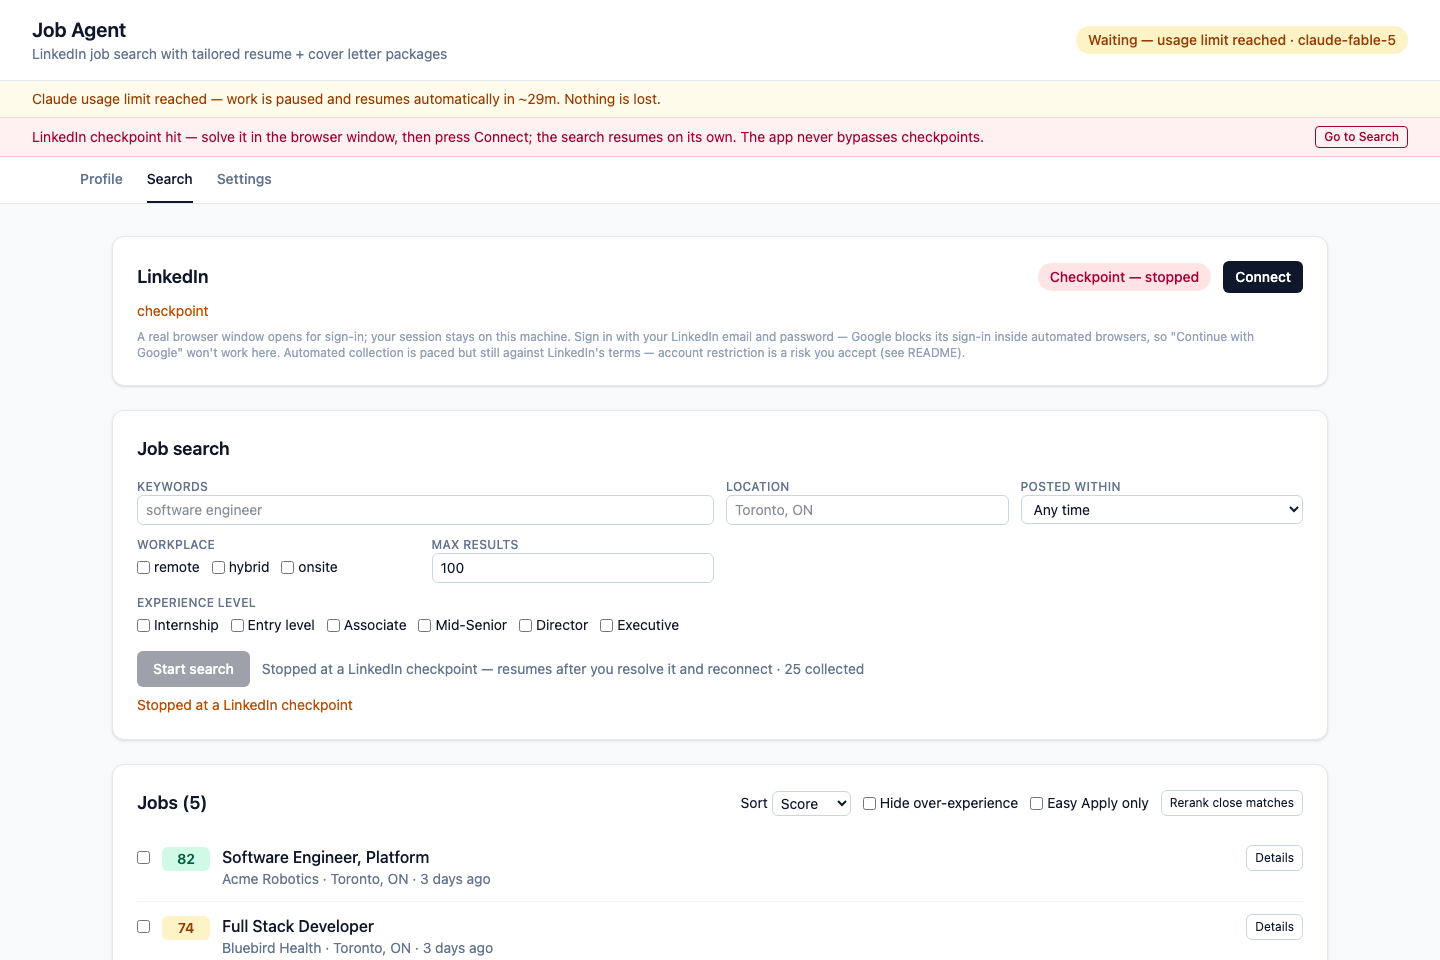
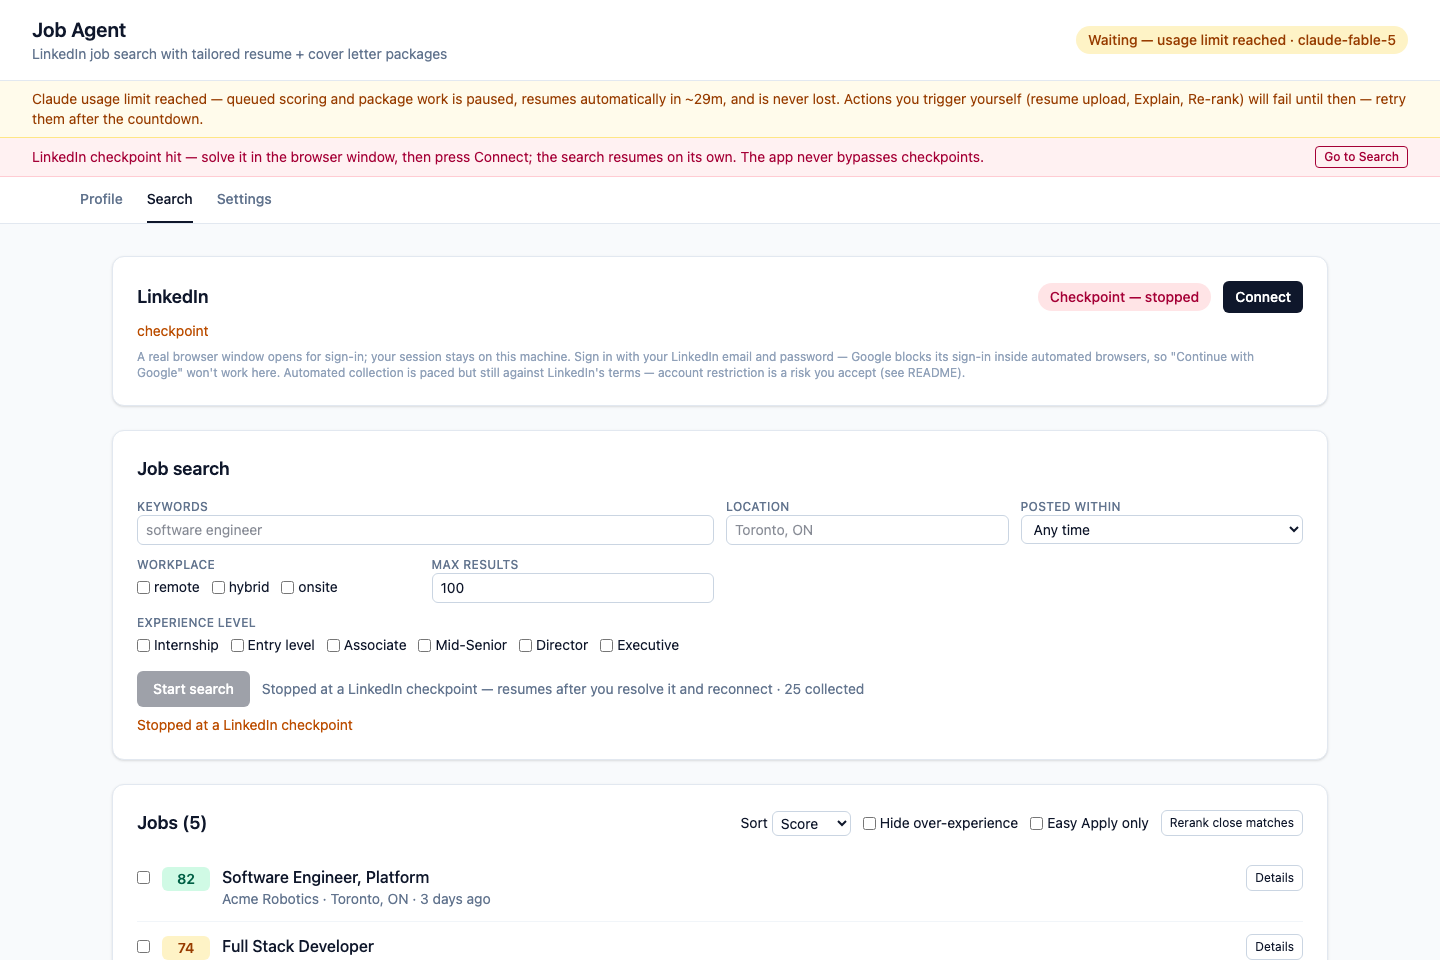
Fix same-file upload retry, refresh recovery screenshot, add macOS fresh-clone script
M5 review round 4:

- Onboarding file input kept its value after a failed upload, so
  re-picking the SAME file fired no change event and the retry silently
  did nothing. The handler now captures the file and clears the input
  immediately, making the next pick a real change whether or not it is
  the same file. scripts/ci/upload_retry_browser_check.py verifies this
  in a real Chromium against the built UI with the upload API mocked
  (503 then 200): it asserts the input is empty after the failure — the
  DOM precondition browsers require — and that a second selection of the
  same file reaches the API and advances the app. The check is
  falsifiable: against the pre-fix bundle it fails with
  "file input still holds 'C:\\fakepath\\resume.pdf' after a failure".
- docs/screenshots/recovery.png recaptured from the current UI; it still
  showed the pre-round-3 global promise ("work is paused and resumes
  automatically ... Nothing is lost") that the scoped copy replaced.
- scripts/ci/macos_freshclone.sh: the macOS half of the PLAN.md M5
  fresh-clone criterion — clone, setup.sh, boot via the documented
  entrypoint, API health, .data permissions, real Chromium launch, with
  a provenance line naming the SHA, OS and arch. Its header states the
  scope limit: a fresh checkout using the host's existing toolchain, not
  a first-install on a bare machine (that is what the Ubuntu container
  run covers).
- routes.py _spawn_search docstring: "one worker per run, ever" ->
[…]

diff --git a/frontend/src/pages/Onboarding.tsx b/frontend/src/pages/Onboarding.tsx
@@ -198,7 +198,16 @@ export default function Onboarding() {
             accept=".pdf,.docx"
             className="hidden"
             disabled={busy !== null}
-            onChange={(e) => e.target.files?.[0] && upload(e.target.files[0])}
+            onChange={(e) => {
+              const file = e.target.files?.[0]
+              // Reset the input as soon as the file is captured: a failed
+              // upload (usage limit, unsupported file) leaves the same
+              // file selected, and re-picking it fires no change event —
+              // the retry would look dead. An empty value makes the next
+              // pick a real change, same file or not.
+              e.target.value = ''
+              if (file) upload(file)
+            }}
           />
         </label>
         {error && <p className="mt-4 text-sm text-rose-600">{error}</p>}

diff --git a/scripts/ci/upload_retry_browser_check.py b/scripts/ci/upload_retry_browser_check.py
@@ -1,0 +1,125 @@
+"""Browser check (PLAN.md M5, 'invalid upload' recovery): a failed resume
+upload must be retriable with the SAME file from the same input element.
+
+Runs the real built UI in Chromium against a running app, with every
+/api/* response mocked (sanitized sample data only — no real profile or
+LinkedIn data is fetched or rendered). The first upload attempt is
+answered 503 (usage limit), the second 200.
+
+Two things are asserted, and only together do they prove the retry path:
+
+1. After the failed attempt the file input's value is EMPTY. This is the
+   DOM precondition browsers require: an input whose value still holds
+   the previous path fires no `change` event when the user picks that
+   same file again, so the retry would silently do nothing.
+2. A second selection of the same file reaches the API and the app
+   advances to the profile view.
+
+Scope note: Playwright's set_input_files always dispatches `change`, even
+when the same file is re-selected, so assertion 2 alone cannot
+distinguish a fixed input from a broken one — assertion 1 is what covers
+the same-file case.
+
+Usage: uv run python scripts/ci/upload_retry_browser_check.py [base_url]
+"""
+
+import asyncio
+import json
+import subprocess
+import sys
+import tempfile
+from datetime import datetime, timezone
+from pathlib import Path
+
+from playwright.async_api import async_playwright
+
+BASE_URL = (sys.argv[1] if len(sys.argv) > 1 else "http://127.0.0.1:8700").rstrip("/")
+
+SAMPLE_PROFILE = {
+    "name": "Jordan Sample",
+    "headline": "Software Engineer",
+    "contact": {"phone": "555-010-2030", "email": "jordan@example.com",
+                "linkedin": "linkedin.com/in/jordansample", "github": None,
+                "website": None, "location": "Toronto, ON"},
+    "experiences": [{"title": "Software Engineer", "company": "Acme Robotics",
+                     "location": "Toronto, ON", "start": "May 2024",
+                     "end": "Present",
+                     "bullets": ["Built event-driven ingestion for 4,000+ users"]}],
+    "projects": [],
+    "education": [{"institution": "University of Toronto",
+                   "location": "Toronto, ON", "degree": "BSc Computer Science",
+                   "start": "2020", "end": "2024", "details": []}],
+    "skills": [{"category": "Languages", "items": ["Python", "TypeScript"]}],
+}
+ENGINE_WAITING = {"status": "waiting_usage_exhausted", "model": "claude-fable-5",
+                  "retry_in_seconds": 300, "last_error": "usage limit reached"}
+USAGE_503 = {"detail": "UsageExhausted: usage limit cooldown: retry in 300s"}
+
+
+async def main() -> int:
+    uploads: list[str] = []
+    resume_pdf = Path(tempfile.mkdtemp()) / "resume.pdf"
+    resume_pdf.write_bytes(b"%PDF-1.4\n% sanitized placeholder\n%%EOF\n")
+
+    async def route(r):
+        path = r.request.url.split(BASE_URL)[-1].split("?")[0]
+        if path == "/api/profile/upload":
+            uploads.append(r.request.method)
+            if len(uploads) == 1:  # usage limit on the first attempt
+                await r.fulfill(status=503, content_type="application/json",
+                                body=json.dumps(USAGE_503))
+            else:
+                await r.fulfill(status=200, content_type="application/json",
+                                body=json.dumps({"version": 1, "confirmed": False,
+                                                 "profile": SAMPLE_PROFILE,
+                                                 "ledger": {}}))
+            return
+        if path == "/api/profile":
+            await r.fulfill(status=200, content_type="application/json",
+                            body=json.dumps({"version": None}))
+            return
+        if path == "/api/status":
+            await r.fulfill(status=200, content_type="application/json",
+                            body=json.dumps({"app": "job-agent",
+                                             "engine": ENGINE_WAITING}))
+            return
+        if path.startswith("/api/"):
+            await r.fulfill(status=200, content_type="application/json", body="{}")
+            return
+        await r.continue_()
+
+    async with async_playwright() as pw:
+        browser = await pw.chromium.launch()
+        page = await browser.new_page(viewport={"width": 1280, "height": 900})
+        await page.route("**/*", route)
+        await page.goto(BASE_URL + "/")
+        await page.wait_for_selector("text=Upload your resume")
+
+        # Attempt 1 — the usage limit rejects it.
+        await page.set_input_files("input[type=file]", str(resume_pdf))
+        await page.wait_for_selector("text=usage limit cooldown")
+        assert len(uploads) == 1, uploads
+        value = await page.eval_on_selector("input[type=file]", "el => el.value")
+        assert value == "", f"file input still holds {value!r} after a failure"
+        print("[ok] failure shown inline; file input cleared for a same-file retry")
+
+        # Attempt 2 — the SAME file through the SAME input element.
+        await page.set_input_files("input[type=file]", str(resume_pdf))
+        await page.wait_for_selector("text=Your profile")
+        assert len(uploads) == 2, uploads
+        print("[ok] same-file retry reached the API and the app advanced")
+
+        await browser.close()
+
+    head = subprocess.run(["git", "rev-parse", "HEAD"], capture_output=True,
+                          text=True, cwd=Path(__file__).resolve().parents[2])
+    print("provenance:",
+          f"head={head.stdout.strip()[:40]}",
+          f"date={datetime.now(timezone.utc):%Y-%m-%dT%H:%M:%SZ}",
+          f"base_url={BASE_URL}",
+          f"os={sys.platform}")
+    print("=== UPLOAD RETRY BROWSER CHECK PASS")
+    return 0
+
+
+raise SystemExit(asyncio.run(main()))

diff --git a/backend/api/routes.py b/backend/api/routes.py
@@ -706,8 +706,9 @@ def _maybe_resume_packages() -> bool:
 
 
 def _spawn_search(run_id: int) -> bool:
-    """One worker per run, ever: a second Start/Resume for a run that is
-    already being driven is a no-op. Returns whether a task was spawned."""
+    """At most one concurrent worker per run: a second Start/Resume for a
+    run that is already being driven is a no-op (a finished worker's slot
+    is reusable). Returns whether a task was spawned."""
     existing = _search_tasks.get(run_id)
     if existing is not None and not existing.done():
         return False
